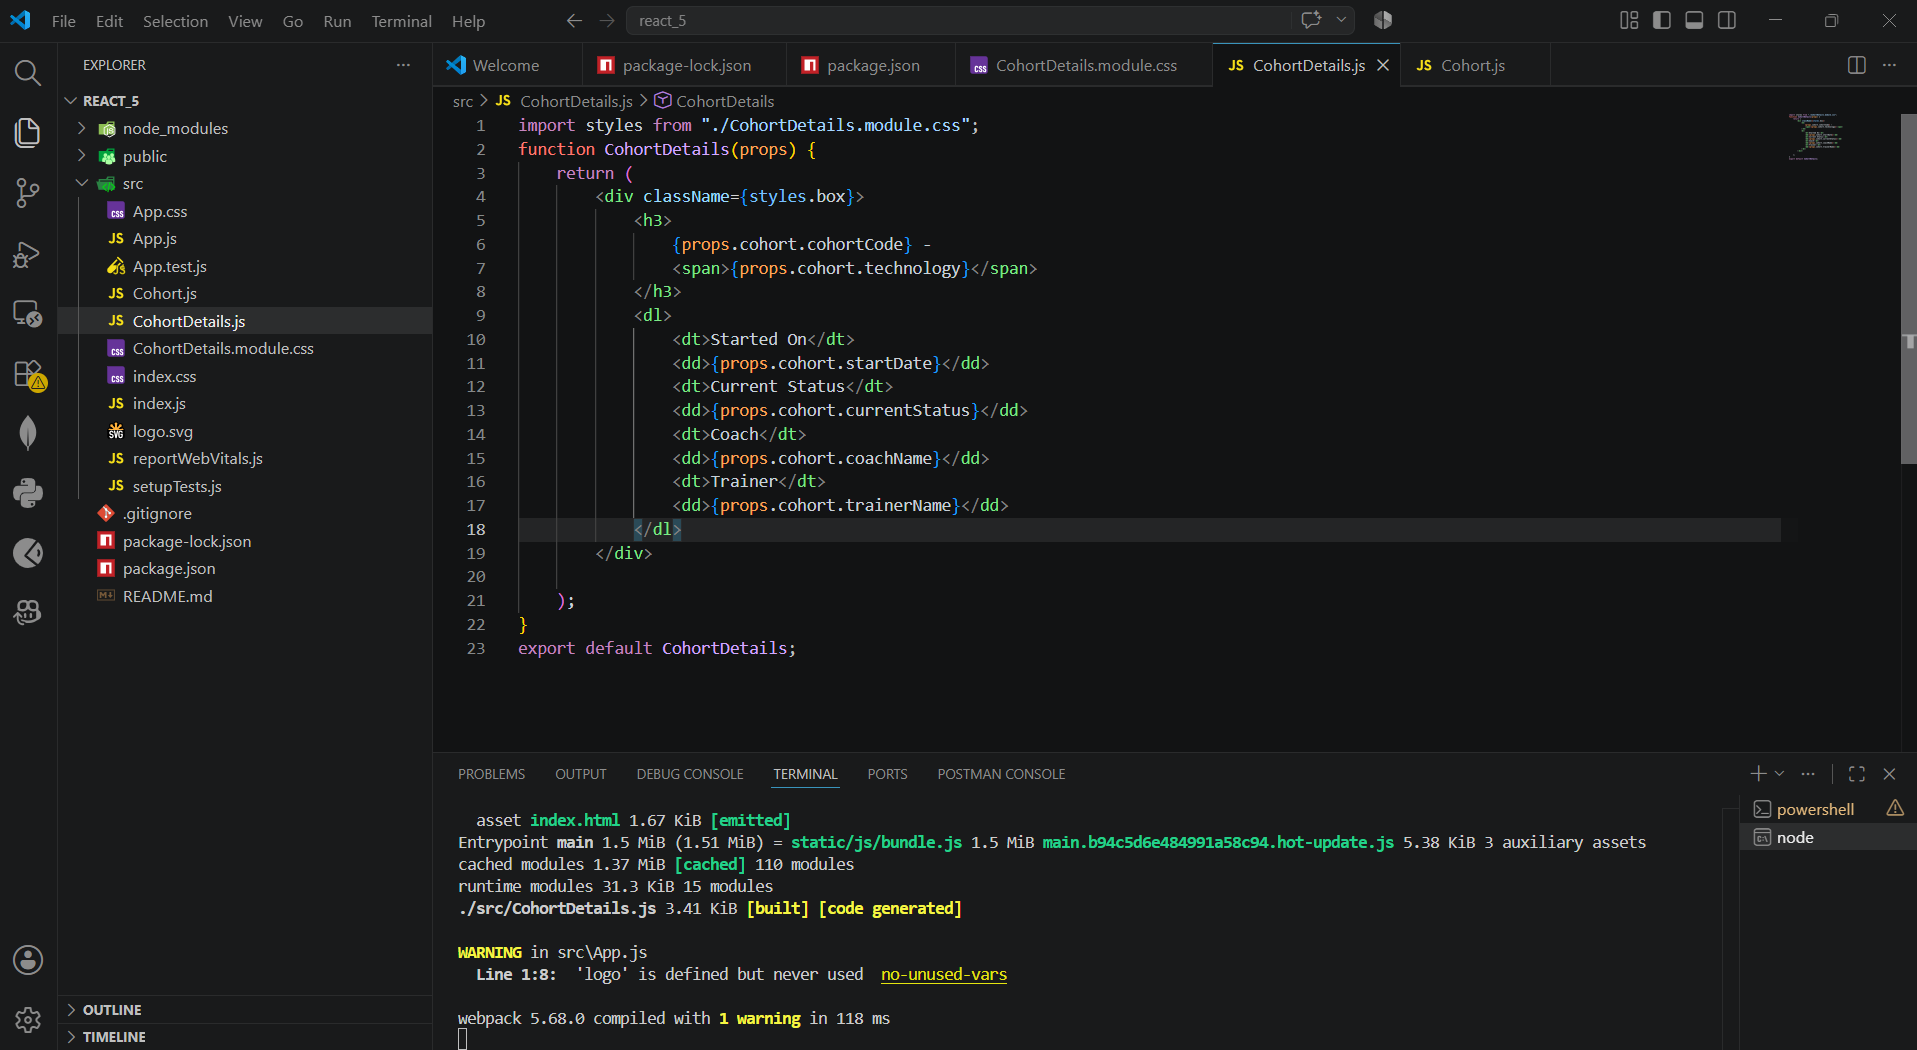
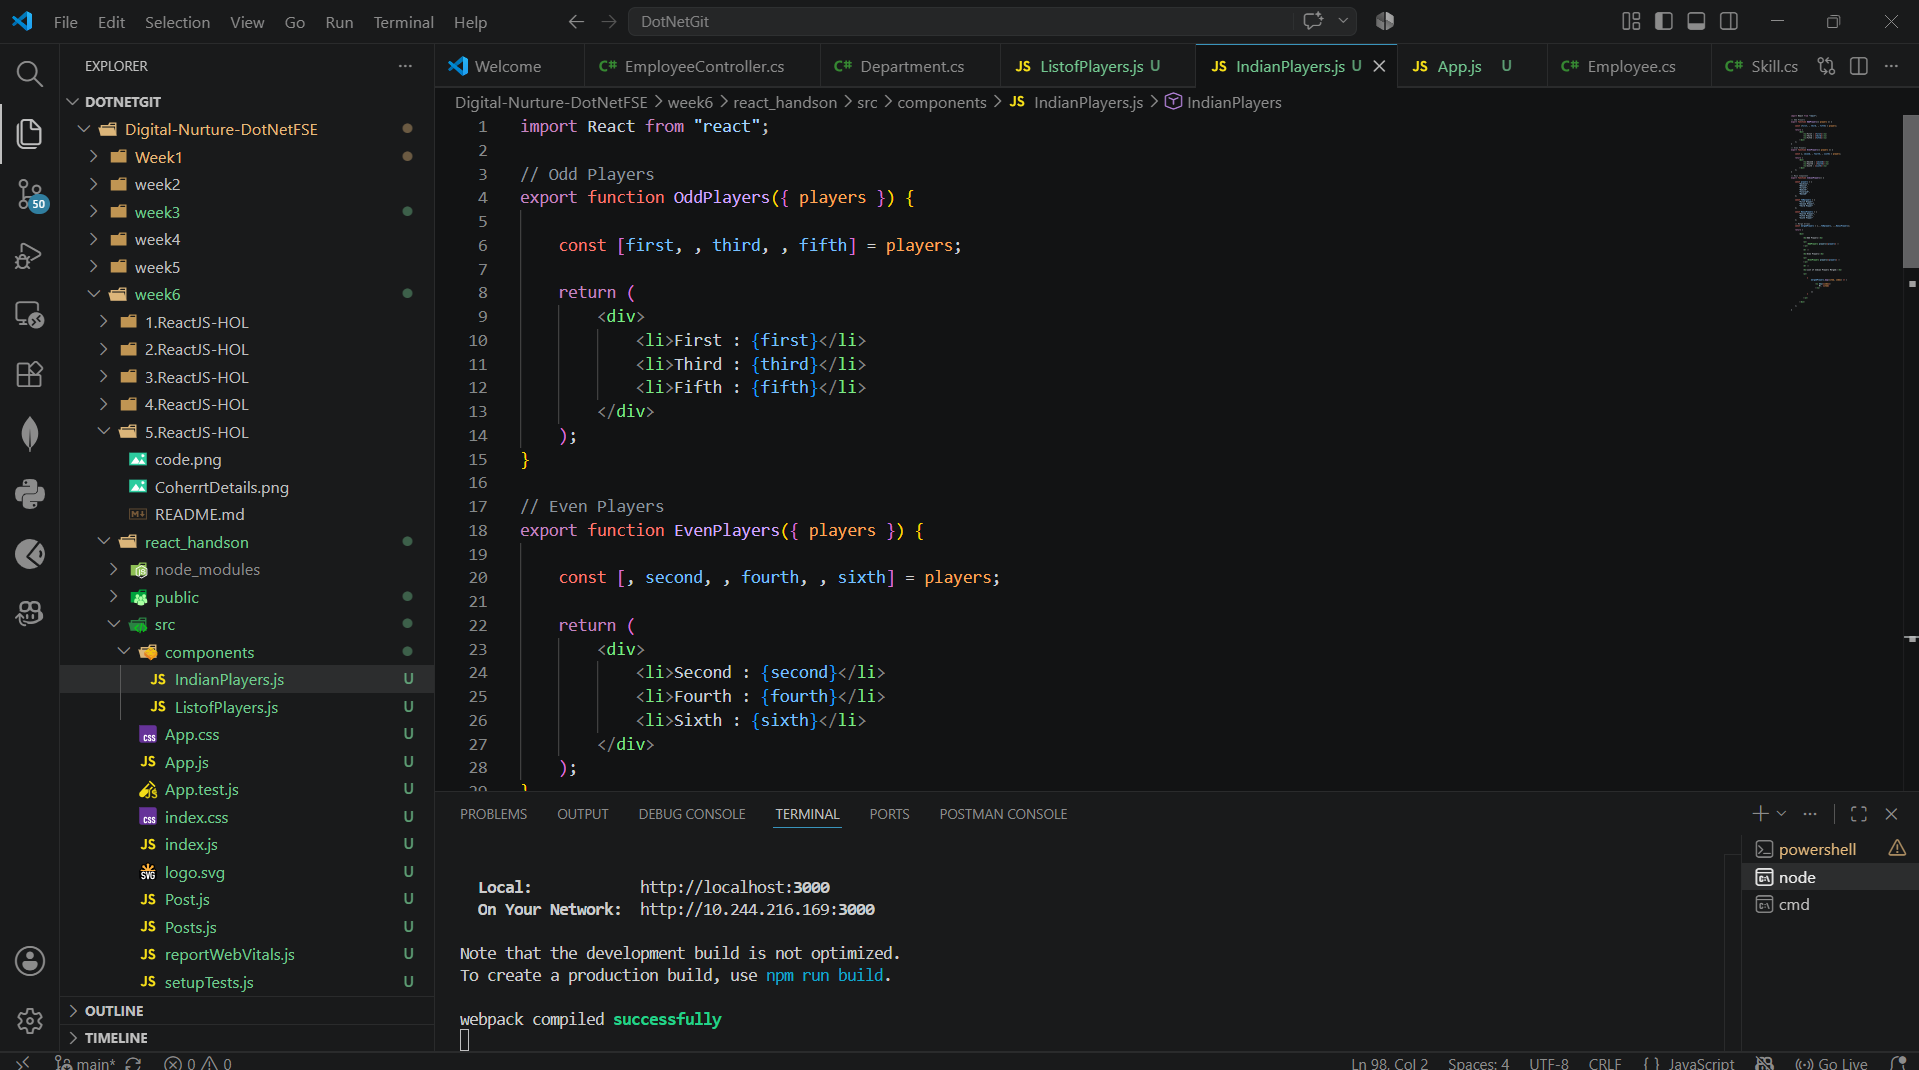
handson 9 added

diff --git a/week6/9.ReactJS-HOL/README.md b/week6/9.ReactJS-HOL/README.md
@@ -1,117 +1,91 @@
-# React Hands-On 5 – Styling React Components using CSS Modules
+# Cricket App 9– ES6 Features in React
 
 ## Objective
 
-- Understand the need for styling React components.
-- Apply styles using CSS Modules.
-- Use `className` and inline styles in React components.
+- Understand ES6 features in JavaScript.
+- Learn the difference between `var`, `let`, and `const`.
+- Implement ES6 arrow functions.
+- Use `map()` for rendering lists.
+- Use array destructuring.
+- Merge arrays using the spread (`...`) operator.
+
+---
+
+## Technologies Used
+
+- React
+- JavaScript (ES6)
+- Node.js
+- npm
+- Visual Studio Code
 
 ---
 
 ## Prerequisites
 
-- Node.js
-- NPM
+- Node.js installed
+- npm installed
 - Visual Studio Code
-
----
-
-## Project Name
-
-**cohortstracker**
 
 ---
 
 ## Implementation
 
-### Step 1 – Restore Project Dependencies
+### Task 1 – Create React Application
 
-Install all required packages.
-
-```bash
-npm install
-```
+- Created a React application named **cricketapp**.
+- Opened the project in Visual Studio Code.
 
 ---
 
-### Step 2 – Run the React Application
+### Task 2 – List of Players Component
 
-Start the development server.
-
-```bash
-npm start
-```
+- Created an array containing **11 players** with their names and scores.
+- Displayed the player list using the **map()** method.
+- Filtered players having scores less than **70** using **ES6 arrow functions**.
 
 ---
 
-### Step 3 – Create CSS Module
+### Task 3 – Indian Players Component
 
-Created a CSS Module file named:
-
-```
-CohortDetails.module.css
-```
-
-Defined the `.box` class with:
-
-- Width: 300px
-- Display: inline-block
-- Margin: 10px
-- Padding: 10px 20px
-- Border: 1px solid black
-- Border Radius: 10px
-
-Also styled the `<dt>` element using a tag selector.
-
----
-
-### Step 4 – Import CSS Module
-
-Imported the CSS module into the `CohortDetails` component.
-
-```javascript
-import styles from "./CohortDetails.module.css";
-```
-
----
-
-### Step 5 – Apply CSS Module
-
-Applied the `box` class to the container using:
-
-```jsx
-<div className={styles.box}>
-```
-
----
-
-### Step 6 – Apply Conditional Styling
-
-Applied inline styling to the `<h3>` element.
-
-- Green color for **Ongoing** cohorts.
-- Blue color for all other cohort statuses.
-
-Example:
-
-```jsx
-<h3 style={{ color: status === "Ongoing" ? "green" : "blue" }}>
-```
-
----
-
-
----
-
-### Step 7 – Cohort details page
+- Used **array destructuring** to display **Odd Team Players** and **Even Team Players**.
+- Declared **T20Players** and **RanjiTrophyPlayers** arrays.
+- Merged both arrays using the **spread (`...`) operator**.
+- Displayed the merged list of players.
 
 ![alt text](code.png)
 
 ---
 
+### Task 4 – Conditional Rendering
+
+- Used a boolean **flag** variable.
+- When `flag = true`, displayed the **List of Players**.
+- When `flag = false`, displayed the **Indian Players** component.
+
+---
+
 ## Output
 
-### Final Styled React Application
+### Task 1 – Player List (Flag = true)
 
-![alt text](CoherrtDetails.png)
+![alt text](op1.png)
 
+Displays:
+- List of all players
+- Players with scores less than 70
+
+### Task 2 – Indian Players (Flag = false)
+
+![alt text](op2.png)
+
+Displays:
+- Odd Team Players
+- Even Team Players
+- Merged list of Indian Players
+
+---
+
+## Result
+
+Successfully created a React application demonstrating ES6 features including **map()**, **arrow functions**, **array destructuring**, **spread operator**, and **conditional rendering**.